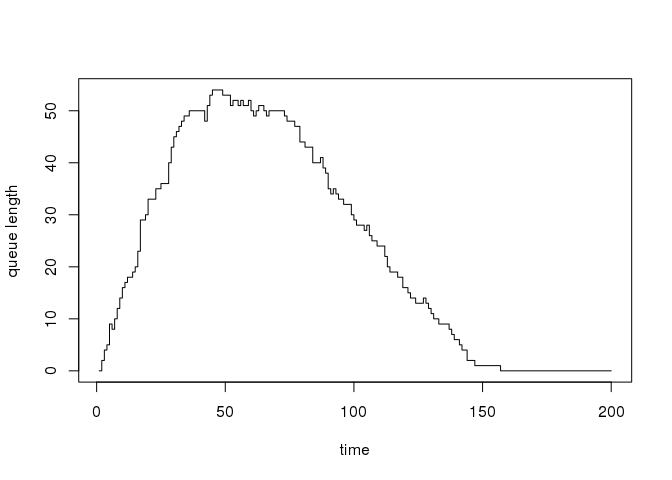
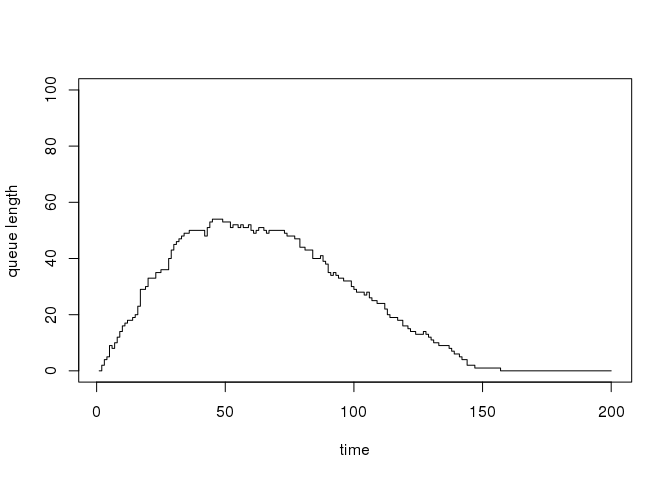
minor

diff --git a/README.md b/README.md
@@ -81,14 +81,14 @@ lines(density(secondqueue$times, from = 0, adjust = 0.5), col = "blue")
 
 #queue lengths ------------
 plot(ecdf(arrival_df$times)(c(1:200))*100 - ecdf(firstqueue$times)(c(1:200))*100, type = "s", 
-  xlab = "time", ylab = "queue length")
+  xlab = "time", ylab = "queue length", ylim = c(0, 100))
 ```
 
 ![](README-unnamed-chunk-4-3.png)
 
 ``` r
 plot(ecdf(arrival_df$times)(c(1:200))*100 - ecdf(secondqueue$times)(c(1:200))*100, type = "s", 
-  xlab = "time", ylab = "queue length")
+  xlab = "time", ylab = "queue length", ylim = c(0, 100))
 ```
 
 ![](README-unnamed-chunk-4-4.png)
